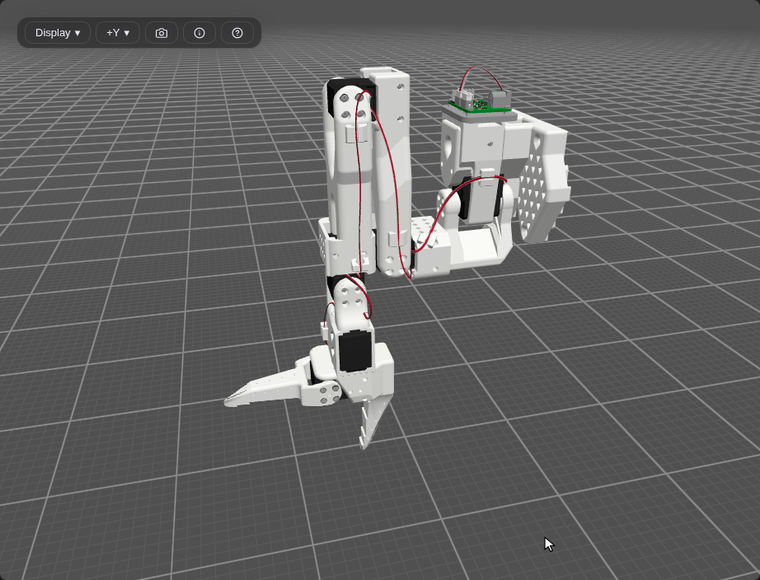
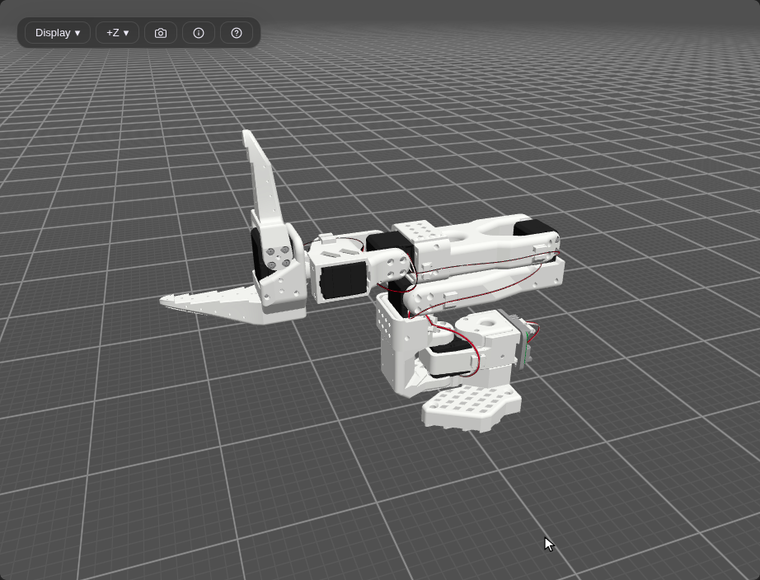
docs: the STEP capture shows the SO-101 z-up; changelogs and notes for #34 and #35

diff --git a/docs/mesh-splat.md b/docs/mesh-splat.md
@@ -20,6 +20,7 @@ Load times and memory are measured in VS Code 1.144 with `tests/e2e/vscode.mjs` 
 ## Ground grid
 
 - Shared with the URDF / MJCF view (`src/utils/horizon-grid.js`). Like Isaac Sim's: a plane under the camera whose shader draws minor and major (10x) lines in powers of ten picked by the camera's distance to its target, minor lines fading out as the view zooms out until the major ones take their place, and everything fading with distance. A `GridHelper` sized to the model left a patch floating in the void when zoomed out, and its 10–100 cells jumped with the model's size.
+- Drawn before every other see-through object, so a splat covers it (#35).
 - Coordinates stay small on the GPU: the plane's own xz plus an offset reduced in JS doubles. World xz in float32 is 0.25 m coarse at UTM northings (4e6), which drew the lines as speckled noise.
 
 ## Large point clouds
@@ -71,6 +72,7 @@ Load times and memory are measured in VS Code 1.144 with `tests/e2e/vscode.mjs` 
 - NuRec `zh_lounge` (1M Gaussians, SH degree 3, 118 MB `.nurec`) takes 37 s in headless Chrome on SwiftShader, but opens acceptably in VS Code on real hardware, and looks right once framed. Isaac's metallic (`metallic_constant = 1`) parts look dark without an environment map; accepted for now.
 - Composition matches `usdcat --flatten` on 50 hand-made and 391 random stages except: a cycle through a variant composes one level more, a variant selection authored only on a weaker reference is not applied, and a relationship to the referencing prim through an internal reference is kept where pxr drops it.
 - Variant fallbacks from plugin metadata are not known here: a variant set with no selection applies no variant; a selection authored inside another variant is not read.
+- Stage lights are not applied (#34).
 - Not supported: MaterialX and MDL shaders other than OmniPBR, PointInstancer, `specializes`, `inherits`, time-sampled visibility, `!resetXformStack!`, `omniverse://` paths.
 
 ## STEP

diff --git a/packages/usd/CHANGELOG.md b/packages/usd/CHANGELOG.md
@@ -1,5 +1,10 @@
 # Changelog
 
+## Unreleased
+
+- A stage's own lights no longer light the view: Isaac Sim's Franka, which carries a 30000-intensity SphereLight, was washed out white. Light prims are listed under *Not shown*.
+- The ground grid no longer shows through a Gaussian splat standing on it.
+
 ## 0.4.2
 
 - The Marketplace page's captures are recorded and played at real speed.

diff --git a/packages/mesh-splat/CHANGELOG.md b/packages/mesh-splat/CHANGELOG.md
@@ -1,5 +1,9 @@
 # Changelog
 
+## Unreleased
+
+- The ground grid no longer shows through a Gaussian splat standing on it.
+
 ## 0.7.2
 
 - The Marketplace page's captures are recorded and played at real speed.
